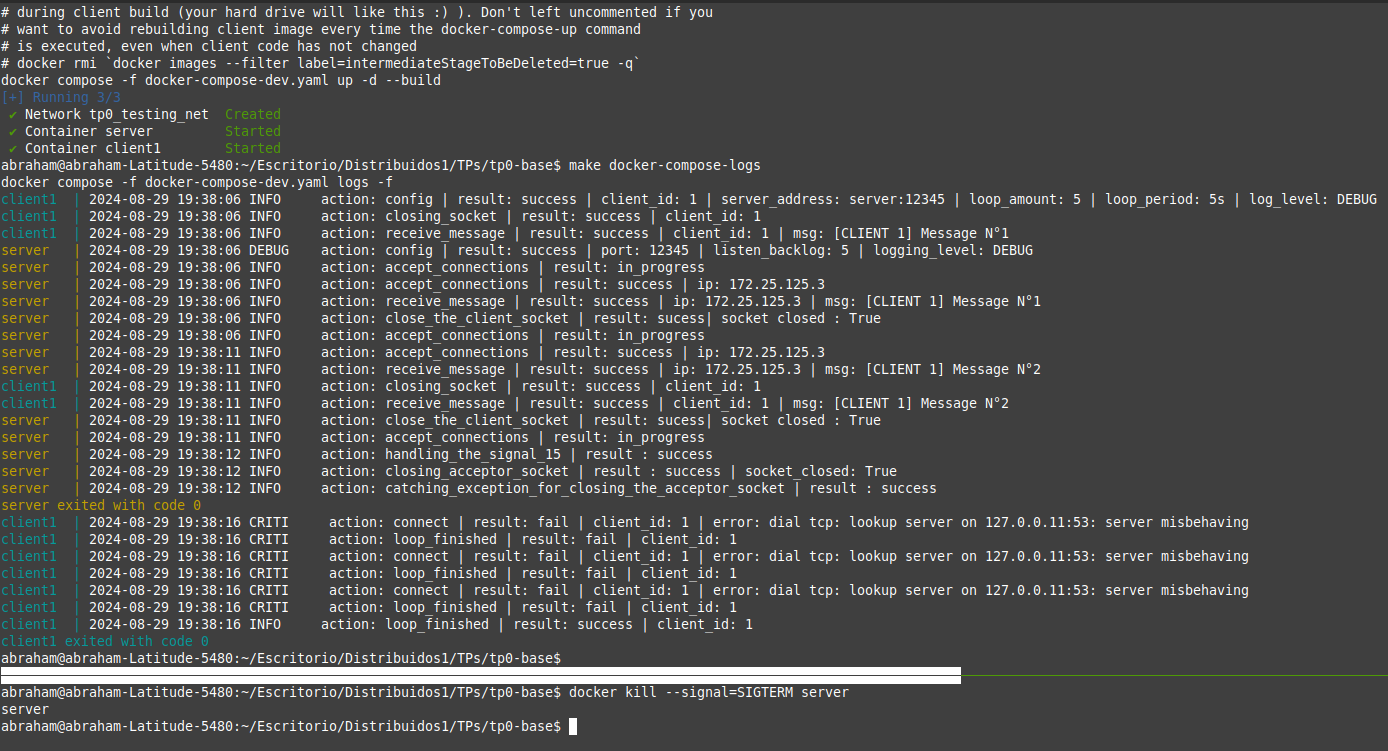
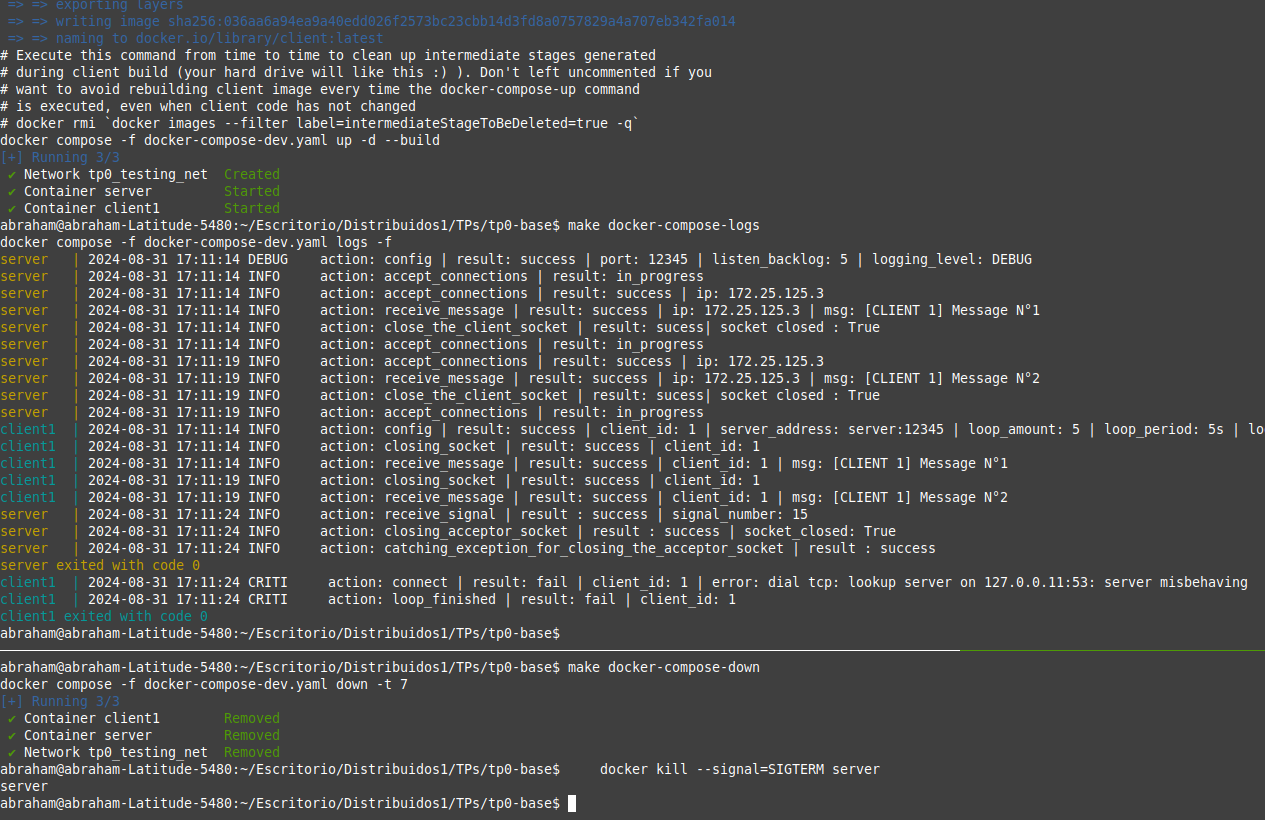
now client, when the connection to server fails, terminates and don't make more attempts, and readme is udpated

Changed region(s): [[0.0, 0.0, 1.0, 1.0], [0.8632, 0.5206, 0.9557, 0.5513], [0.9866, 0.5206, 1.0, 0.5513]]

diff --git a/client/common/client.go b/client/common/client.go
@@ -75,38 +75,6 @@ func (c *Client) CloseSocket() {
 	}
 }
 
-func (c *Client) StartClient(msgID int) {
-	// Create the connection the server in every loop iteration. Send an
-	err := c.createClientSocket()
-	if err != nil {
-		log.Criticalf("action: loop_finished | result: fail | client_id: %v", c.config.ID)
-		return
-	}
-
-	// TODO: Modify the send to avoid short-write
-	fmt.Fprintf(
-		c.conn,
-		"[CLIENT %v] Message N°%v\n",
-		c.config.ID,
-		msgID,
-	)
-	msg, err := bufio.NewReader(c.conn).ReadString('\n')
-	c.CloseSocket()
-	if err != nil {
-		log.Errorf("action: receive_message | result: fail | client_id: %v | error: %v",
-			c.config.ID,
-			err,
-		)
-		return
-	}
-	log.Infof("action: receive_message | result: success | client_id: %v | msg: %v",
-		c.config.ID,
-		msg,
-	)
-	// Wait a time between sending one message and the next one
-	time.Sleep(c.config.LoopPeriod)
-}
-
 // StartClientLoop Send messages to the client until some time threshold is met
 func (c *Client) StartClientLoop() {
 	// There is an autoincremental msgID to identify every message sent
@@ -118,7 +86,34 @@ func (c *Client) StartClientLoop() {
 		if thereWasASignal {
 			break
 		}
-		c.StartClient(msgID)
+		err := c.createClientSocket()
+		if err != nil {
+			log.Criticalf("action: loop_finished | result: fail | client_id: %v", c.config.ID)
+			return
+		}
+
+		// TODO: Modify the send to avoid short-write
+		fmt.Fprintf(
+			c.conn,
+			"[CLIENT %v] Message N°%v\n",
+			c.config.ID,
+			msgID,
+		)
+		msg, err := bufio.NewReader(c.conn).ReadString('\n')
+		c.CloseSocket()
+		if err != nil {
+			log.Errorf("action: receive_message | result: fail | client_id: %v | error: %v",
+				c.config.ID,
+				err,
+			)
+			return
+		}
+		log.Infof("action: receive_message | result: success | client_id: %v | msg: %v",
+			c.config.ID,
+			msg,
+		)
+		// Wait a time between sending one message and the next one
+		time.Sleep(c.config.LoopPeriod)
 	}
 
 	log.Infof("action: loop_finished | result: success | client_id: %v", c.config.ID)
